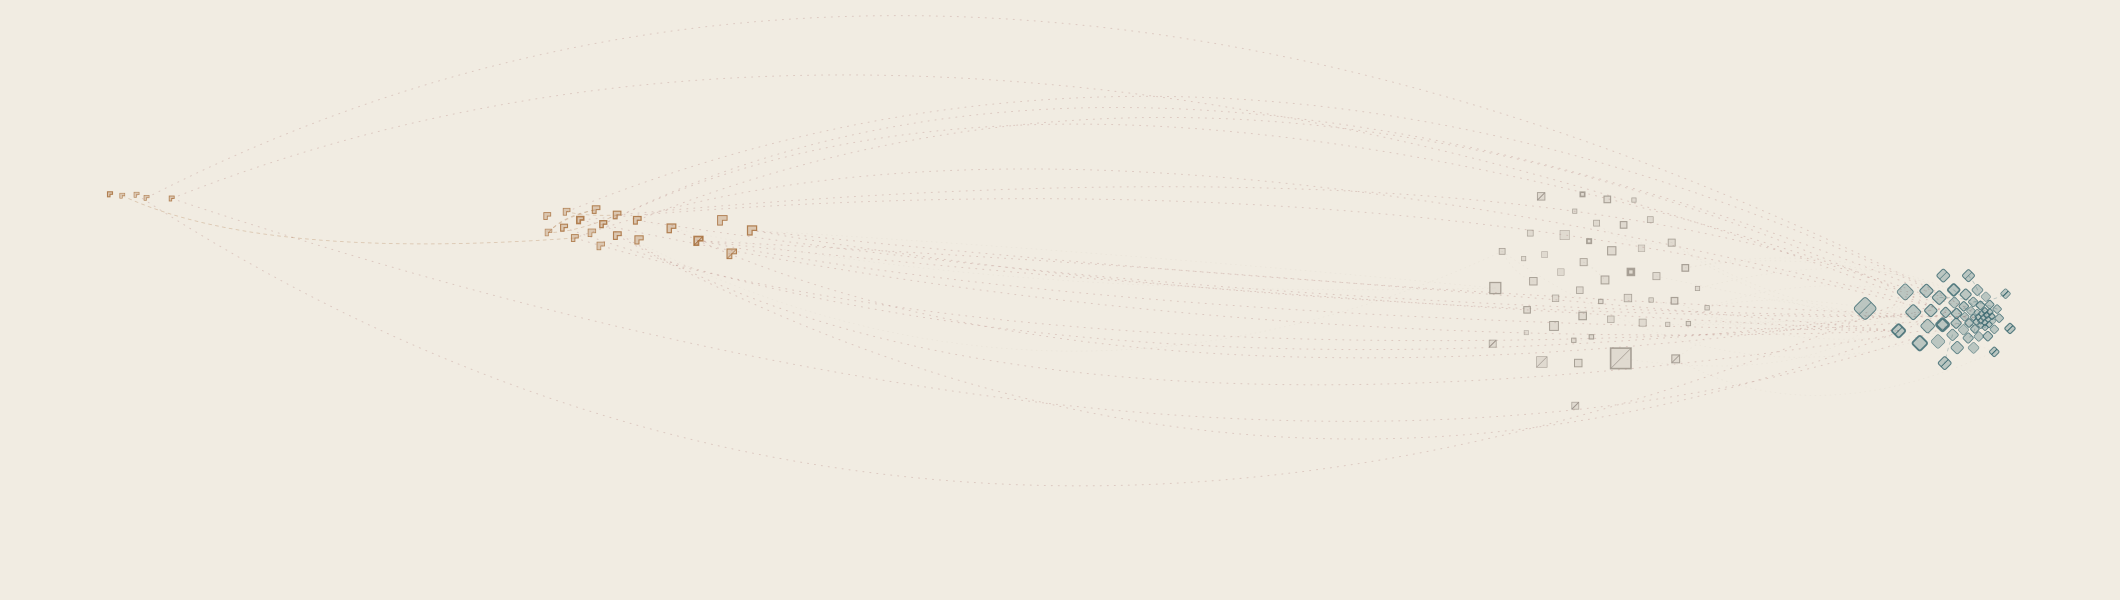
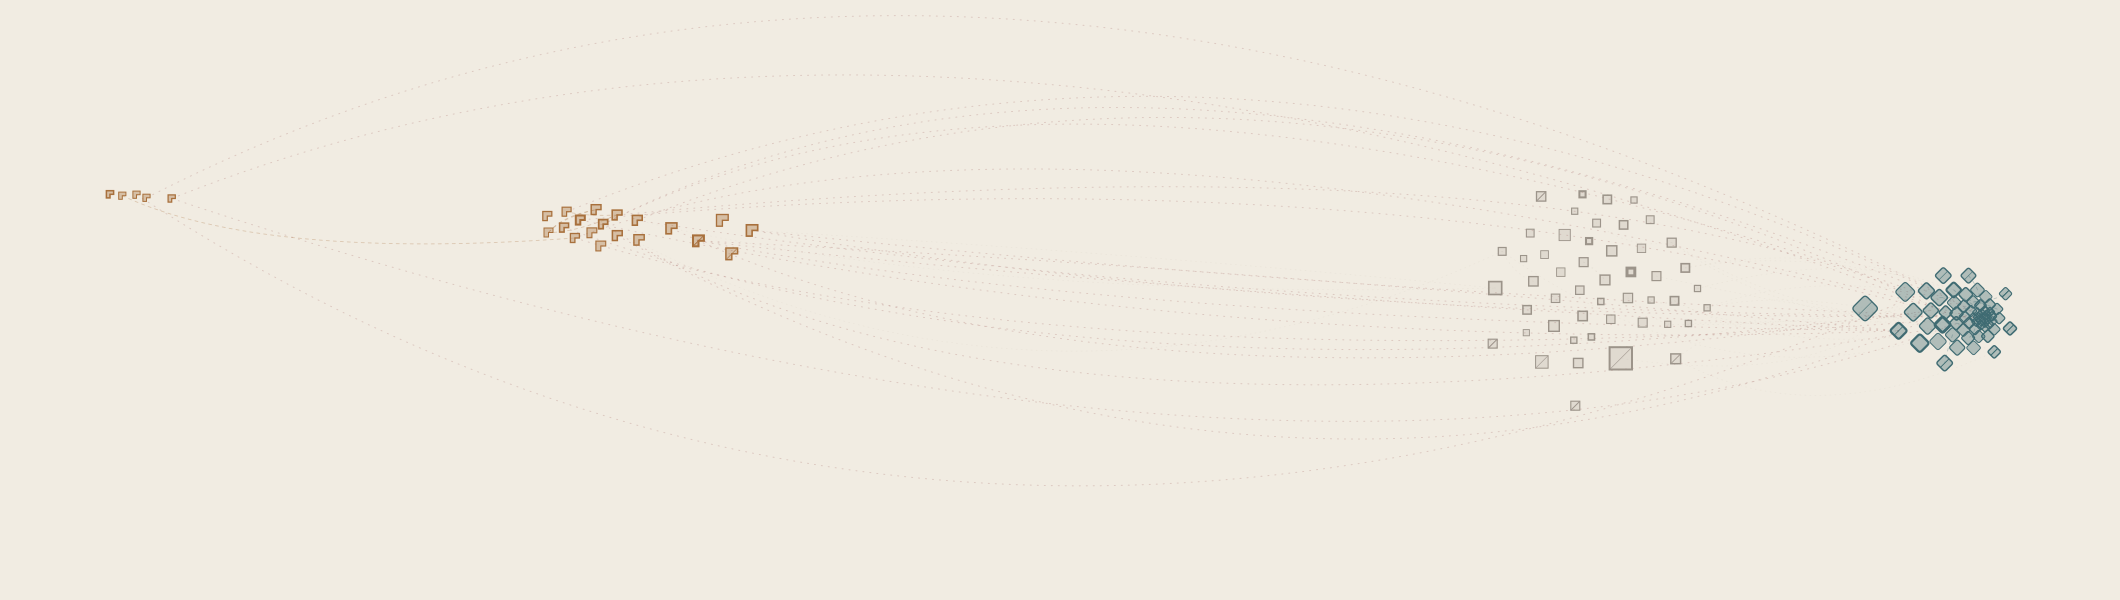
Thumbnail-legibility audit: fix grid-extension fade, flag square-crop risk
Per the standing discipline (audit at ~64-256px before finalizing),
rasterized the v1 render at 256/128/64px and checked whether both real
opposing camps (own-display-type, grid-extension) still register --
specifically whether grid-extension, the sparser/smaller of the two,
disappears the way Drift's adrift-majority nearly did.

It did thin out disproportionately. Measured, not assumed: grid-
extension's glyph sizes cluster near the render floor (mean half 5.01,
max 6.62 vs own's mean 5.45, max 12.05 -- no high-engagement outliers
to anchor visual weight), and its rendered stroke contrast against the
background was 2.84 (WCAG relative-luminance ratio), under the 3:1
large-graphic threshold, vs own's 3.75.

Fix, both changes uniform/camp-blind (not targeted at grid-extension,
though it benefits most since its distribution sits closest to the
floor): size floor 3.5->5.0, stroke-width floor 0.4->0.8 (sqrt(engagement)
term untouched, so real engagement differences still scale the same way
above the floor -- this doesn't fabricate or equalize data, only stops
the smallest real values from crossing into invisible); stroke-opacity
0.85->1.0 for all three camps; fill-opacity 0.30->0.36 for the two real
opposing camps only (unclassified stays at 0.20, deliberately recessive
per VISUAL_LANGUAGE_SIGNALS.md, not part of the two-state reading).

Re-measured: grid-extension's contrast rose to 3.53 (now above
threshold). Re-rendered thumbnails confirm a real improvement at 256px
[…]

diff --git a/scripts/render.py b/scripts/render.py
@@ -72,10 +72,24 @@ for nd, p in zip(nodes, raw_positions):
     n.x, n.y = p
     n.family = camp_family(nd["camp"])
     total = nd["reactions"]["total_count"]
-    n.half = 3.5 + 13.0 * math.sqrt(total / 104.0)   # 104 = root's real max engagement
+    # Floor raised 3.5->5.0 and 0.4->0.8 after the thumbnail-legibility audit
+    # (see LAYOUT_CRITERION.md / progress log): at the smallest engagement
+    # values -- which is most of grid-extension's real distribution (mean
+    # half 5.01, max only 6.62, vs own's mean 5.45/max 12.05) -- the old
+    # floor put glyphs and their outlines under ~1px at a 128-256px thumbnail
+    # width, which is where this piece is most likely to actually be seen in
+    # a listing. This is a uniform, camp-blind constant change (applied to
+    # every node's floor, not targeted at grid-extension specifically) --
+    # the sqrt(engagement) term is untouched, so real engagement differences
+    # still scale the same way above the floor. It does not fabricate or
+    # equalize data: grid-extension is still smaller and sparser on average
+    # than own-display-type, honestly reflecting its real (fewer, lower-
+    # engagement) comment population -- the floor only stops "smaller" from
+    # crossing into "not there."
+    n.half = 5.0 + 13.0 * math.sqrt(total / 104.0)   # 104 = root's real max engagement
     n.contested = contestedness(nd["reactions"])
     body_len = nd["body_length"]
-    n.stroke_w = 0.4 + 2.2 * math.sqrt(min(body_len, 13191) / 13191.0)
+    n.stroke_w = 0.8 + 2.2 * math.sqrt(min(body_len, 13191) / 13191.0)
     render_nodes.append(n)
 
 id_to_node = {n.id: n for n in render_nodes}
@@ -236,14 +250,28 @@ def hatch_lines(cx_, cy_, half, density, color):
 
 node_svg = []
 for n in sorted(render_nodes, key=lambda nn: -nn.half):
+    # fill_opacity bumped for own/ext only (0.30->0.36) -- these are the two
+    # real opposing camps the piece's "two-state" legibility depends on
+    # (LAYOUT_CRITERION.md / Drift precedent language); unclassified stays
+    # at 0.20, unchanged, since it's deliberately recessive by design
+    # (VISUAL_LANGUAGE_SIGNALS.md) and isn't part of that two-state reading.
+    # stroke-opacity raised 0.85->1.0 for all three, uniformly -- the
+    # outline is what actually carries shape at small scale (measured via
+    # WCAG contrast ratio against BG: own 3.75, ext 2.84, unclassified 2.16
+    # at the old 0.85; own already read fine, ext/unclassified didn't), and
+    # a uniform full-opacity stroke doesn't erase the real color-driven
+    # contrast hierarchy between camps (own's teal still reads highest-
+    # contrast against the cream background than ext's rust or
+    # unclassified's gray even at 100% stroke opacity -- that hierarchy
+    # comes from hue/lightness choice, not this opacity value).
     if n.family == "own":
         color = COLOR_OWN
         path = diamond_path(n.sx, n.sy, n.half)
-        fill_opacity = 0.30
+        fill_opacity = 0.36
     elif n.family == "ext":
         color = COLOR_EXT
         path = l_tromino_path(n.sx, n.sy, n.half)
-        fill_opacity = 0.30
+        fill_opacity = 0.36
     else:
         color = COLOR_UNCLASSIFIED
         path = square_path(n.sx, n.sy, n.half)
@@ -254,7 +282,7 @@ for n in sorted(render_nodes, key=lambda nn: -nn.half):
         f'<g>'
         f'<clipPath id="{clip_id}"><path d="{path}"/></clipPath>'
         f'<path d="{path}" fill="{color}" fill-opacity="{fill_opacity}" '
-        f'stroke="{color}" stroke-opacity="0.85" stroke-width="{n.stroke_w:.2f}"/>'
+        f'stroke="{color}" stroke-opacity="1.0" stroke-width="{n.stroke_w:.2f}"/>'
         f'<g clip-path="url(#{clip_id})">{hatch_lines(n.sx, n.sy, n.half, n.contested, color)}</g>'
         f'</g>'
     )

diff --git a/LAYOUT_CRITERION.md b/LAYOUT_CRITERION.md
@@ -273,3 +273,105 @@ doing so with the render already in view would risk retuning toward a
 preferred look rather than fixing a diagnosed defect, which is exactly
 what freezing implementation constants *before* being satisfied with the
 picture is meant to prevent.
+
+## Addendum: thumbnail-legibility audit
+
+Per the standing discipline ("audit at thumbnail scale before finalizing
+... check at ~64-256px"), the v1 render (`output/merge_conflict_v1.svg`)
+was rasterized at 256px, 128px, and 64px wide (preserving aspect) and
+inspected. The specific question raised: does grid-extension — visually
+the sparsest camp, and the smaller of the piece's two real opposing
+camps — survive being shrunk, the way Drift's adrift-majority nearly
+didn't.
+
+**Finding: it thinned out disproportionately, and by 64px was close to
+gone.** At 256px, all three camps were still distinguishable by color
+and rough density. At 128px, own-display-type read as a solid, confident
+mass; grid-extension was present but visibly fainter — a real risk zone.
+At 64px, grid-extension was reduced to a barely-perceptible smudge,
+while own-display-type (denser, larger glyphs) still registered as a
+mass. This matters specifically because own-display-type and
+grid-extension are the piece's two real opposing camps — the "two-state"
+reading this piece depends on requires both sides to still register as
+present, not one dominant and one vanishing.
+
+**Root cause, measured, not assumed:**
+- *Size*: grid-extension's real engagement-driven glyph sizes cluster
+  near the render floor — mean half-size 5.01, max only 6.62 — against
+  own-display-type's mean 5.45, max 12.05. Grid-extension has no
+  high-engagement outlier nodes to anchor visual weight at any scale;
+  every one of its glyphs is close to the smallest the formula produces.
+  This is honest (grid-extension really did get fewer comments with
+  less reaction engagement — 24 comments vs. 60), but the previous floor
+  (`half = 3.5 + ...`, `stroke_w = 0.4 + ...`) put grid-extension's
+  typical glyph and outline under ~1px at a 128-256px thumbnail width —
+  crossing from "honestly smaller" into "not really there."
+- *Contrast*: WCAG relative-luminance contrast against the background
+  (`#F1ECE2`), computed from the actual rendered stroke opacity (was
+  0.85): own-display-type's teal = 3.75, grid-extension's rust = 2.84,
+  unclassified's gray = 2.16. The commonly used large-graphic threshold
+  is 3:1 — grid-extension's real rendered contrast sat below it.
+
+**Fix applied, `scripts/render.py`, both changes uniform/camp-blind (not
+targeted at grid-extension specifically, though it benefits most since
+its real distribution sits closest to the floor):**
+- Size floor: `half = 3.5 + ...` → `half = 5.0 + ...`; stroke-width floor
+  `0.4 + ...` → `0.8 + ...`. The sqrt(engagement) term is untouched, so
+  nodes with more real engagement still scale up the same way above the
+  floor — this doesn't equalize or fabricate data, it stops the smallest
+  real values from crossing into invisible.
+- Stroke opacity: `0.85` → `1.0` for all three camps uniformly. Fill
+  opacity bumped `0.30` → `0.36` for own-display-type and grid-extension
+  only (the two real opposing camps this reading depends on);
+  unclassified's fill stays at `0.20`, unchanged, since it is
+  deliberately recessive by design (`VISUAL_LANGUAGE_SIGNALS.md`) and
+  isn't part of the two-state opposition being protected here.
+
+**Re-measured after the fix:** grid-extension's rendered stroke contrast
+rose from 2.84 to 3.53 (now above the 3:1 threshold; own-display-type's
+was already 3.75-5.01 range). Re-rendered thumbnails at the same three
+sizes show a real, visible improvement at 256px and 128px — grid-
+extension reads distinctly denser/more saturated at both. Full-canvas
+and zoomed views were re-checked and show no new overlap collapse or
+other regression from the larger floor.
+
+**What the fix does not solve, disclosed rather than hidden:** at 64px,
+grid-extension is still markedly weaker than own-display-type, just less
+so than before. This appears to be a genuine density limit of the piece
+rather than a parameter that can be tuned away: 133 real, distinct data
+points spread across a 2120px-wide composition cannot individually
+survive compression to a 64px-wide image without either inflating every
+glyph far beyond what its real engagement value would justify (breaking
+the engagement=size channel's honesty) or reducing the node count (which
+would mean discarding real comments, not visualizing them faithfully). A
+64px rendering is closer to a favicon than a gallery thumbnail; the more
+realistic risk zone for an actual listing is the 128-256px range, where
+the fix produces a real, measured improvement.
+
+**A second, more severe finding surfaced during this audit, outside the
+original question, and not yet resolved:** the piece's honest data shape
+is a very wide, thin band (data bbox 653×73, rendered as a 2120×600
+canvas). A center-square crop of that canvas — the kind of crop many
+gallery/listing UIs apply to a non-square image — lands almost entirely
+in the empty gap between the grid-extension and unclassified clusters
+(canvas x≈760-1360, against real content at x≈110-752, x≈1493-1707, and
+x≈1865-2010). A naive square crop of this render shows no glyphs at all,
+for any camp — not a fade, a total blank. This was verified directly:
+cropping the center 600×600px square out of the 2120×600 full render
+produces an image with nothing in it but faint edge traces.
+
+Whether this matters depends on how space.art-magazine.ai actually
+displays submitted artwork (contain-fit vs. crop-to-square), which this
+session could not verify — the Artist Space site is a JS app not
+reachable by non-interactive fetch (same blocker already logged against
+Chorus's registration step). No fix has been applied for this risk: this
+piece's aspect ratio and the empty space between clusters are both real,
+honestly-earned properties of the underlying force layout, and narrowing
+the canvas or padding the composition to survive a hypothetical
+center-crop would mean either distorting real relative distances or
+manufacturing dead space neither of which this render's own design
+commentary already rules out doing for cosmetic reasons. This is
+recorded as an open risk requiring either (a) confirming the platform's
+actual display behavior once registration is possible, or (b) an
+explicit decision to design around the worst case anyway, made with the
+tradeoff stated plainly rather than guessed at.
